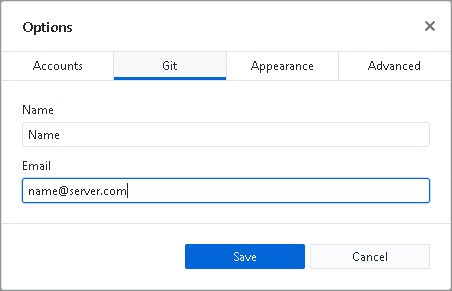
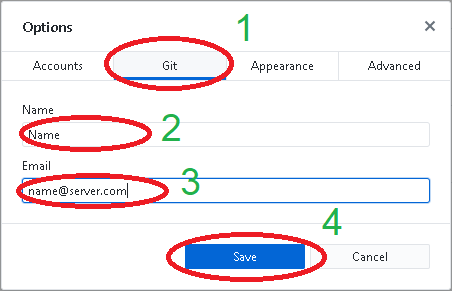
modify git script, TODO: functions in Python

diff --git a/src/python/12 - System kontroli wersji - Git.md b/src/python/12 - System kontroli wersji - Git.md
@@ -6,65 +6,128 @@ System kontroli wersji (ang. *version/revision control system*) jest to oprogram
 
 Dodatkowe materiały:
 
-* Strona projektu git: http://git-scm.com/
-* Darmowa książka: http://git-scm.com/book
-* Tutorial GitHub: https://guides.github.com/
+- Strona projektu git: [http://git-scm.com/](http://git-scm.com/)
+- Darmowa książka: [http://git-scm.com/book](http://git-scm.com/book)
+- Tutorial GitHub: [https://guides.github.com/](https://guides.github.com/)
 
-## Program GitHub Desktop, konto w serwisie GitHub
+## Serwis GitHub i program GitHub Desktop
 
-Utwórz konto w serwisie [GitHub](https://github.com/). Pamiętaj, że GitHub jest bardzo popularnym serwisem wśród społeczności open-source, rozważnie wybierz alias pod którym będziesz widoczny w serwisie. Wszystkie treści publikowane na GitHub, włącznie z projektami i kodem, są domyślnie publiczne. Profil GitHub może być Twoją wizytówką!
+[GitHub](https://github.com/) jest serwisem hostingowym wykorzystującym system kontroli wersji Git. [GitHub](https://github.com/) jest bardzo popularnym serwisem wśród społeczności open-source pozwala na tworzenie zarówno publicznych jak i prywatnych repozytoriów.
 
-Zwyczajowo obsługa systemu kontroli wersji odbywa się za pomocą programu `git` wywoływanego z linii poleceń. Istnieje jednak szereg GUI ułatwiających pracę z programem git. Jednym z nich jest GitHub Desktop. Ściągnij program ze strony https://desktop.github.com/ i zainstaluj. Jeżeli jest to pierwsze uruchomienie programu zostaniesz poproszony o zalogowanie się swoim kontem GitHub. W przeciwnym wypadku program poprosi Cię o zalogowanie później.
+---
 
-**Pamiętaj aby po skończonych laboratoriach wylogować się w programie!**
+#### :hammer: :fire: Zadanie :fire: :hammer:
 
-Warto upewnić się, że program GitHub Desktop ma odpowiednio ustawioną tożsamość użytkownika (w laboratorium z programu korzysta wiele osób). Dzięki temu wgrywane do repozytorium zmiany będą markowane naszą nazwą użytkownika i adresem e-mail. W tym celu z menu *File* wybierz *Options…* (jeśli menu nie jest widoczne, możesz użyć skrótu *Ctrl*+*,*):
+Jeżeli nie masz konta na [GitHub](https://github.com/) utwórz nowe konto. Rozważnie wybierz alias pod którym będziesz widoczny w serwisie. Wszystkie treści publikowane na GitHub, włącznie z projektami i kodem, są domyślnie publiczne. Profil GitHub może być Twoją wizytówką!
 
-![](./_images/12/git_options.png)
+---
 
-Następnie w zakładce Git wyedytuj nazwę oraz adres email:
+Zwyczajowo obsługa systemu kontroli wersji odbywa się za pomocą programu `git` wywoływanego z linii poleceń. Istnieje jednak szereg GUI ułatwiających pracę z programem git. Jednym z nich jest GitHub Desktop. Celem instalacji programu na domowym komputerze można go pobrać ze strony: [https://desktop.github.com/](https://desktop.github.com/).
 
-![](./_images/12/git_credentials.png)
+Jeżeli jest to pierwsze uruchomienie programu zostaniesz poproszony o zalogowanie się swoim kontem GitHub. W przeciwnym wypadku otwórz menu **File** (1) &rarr; **Options..** (2) (jeśli menu nie jest widoczne, możesz użyć skrótu *Ctrl*+*,*):
 
-## Tworzenie repozytorium
+![git_options](./_images/12/git_options.png)
 
-GitHub Desktop służy do zarządzania lokalnymi repozytoriami znajdującymi się na dysku komputera. Pierwszym krokiem umożliwiającym nam pracę jest utworzenie lokalnego repozytorium w folderze naszego projektu. W tym celu klikamy:
+Następnie wybierz zakładkę **Accounts** (1) i zaloguj program *GitHub Desktop* do serwisu *GitHub* klikając **Sign in** (2), konieczne będzie podanie danych do logowania:
 
-![](./_images/12/git_create.png)
+![git_accounts](./_images/12/git_accounts.png)
 
-Następnie nadaj nazwę swojemu repozytorium: *hello-git-nazwisko* (nie używaj w nazwie repozytorium "polskich" znaków!) i wybierz lokalizację, w której zostanie utworzony nasz projekt. Następnie wybierz konfigurację Git Ignore. Warto wskazać używany język, np. C++ (dowiedz się czym jest plik .gitignore). Utwórz lokalne repozytorium klikając *Create Repository*.
+---
 
-Obejrzyj zawartość folderu z utworzonym repozytorium. Zauważ, że pojawił się ukryty folder *.git*. Zastanów się co zawiera?
+#### :hammer: :fire: Zadanie :fire: :hammer:
+
+1. Zaloguj *GitHub Desktop* w serwisie *GitHub*.
+2. **Pamiętaj aby po skończonych laboratoriach wylogować się w programie!** Operację tę wykonasz w tym samym menu klikając **Sign Out**.
+
+---
+
+Warto upewnić się, że program GitHub Desktop ma odpowiednio ustawioną tożsamość użytkownika (w laboratorium z programu korzysta wiele osób). Dzięki temu wgrywane do repozytorium zmiany będą markowane naszą nazwą użytkownika i adresem e-mail. W tym celu otwórz menu **File** (1) &rarr; **Options..** (2):
+
+![git_options](./_images/12/git_options.png)
+
+Następnie w zakładce **Git** (1) wyedytuj nazwę (2) oraz adres email (3). Zatwierdź klikając **Save** (4):
+
+![git_credentials](./_images/12/git_credentials.png)
+
+---
+
+#### :hammer: :fire: Zadanie :fire: :hammer:
+
+Wyedytuj tożsamość w programie *GitHub Desktop* zgodnie z powyższą instrukcją.
+
+---
+
+## Moje pierwsze repo
+
+### Tworzenie repozytorium
+
+*GitHub Desktop* służy do zarządzania lokalnymi repozytoriami znajdującymi się na dysku komputera. Pierwszym krokiem umożliwiającym nam pracę jest utworzenie lokalnego repozytorium w folderze naszego projektu. W tym celu klikamy:
+
+![git_create](./_images/12/git_create.png)
+
+Następnie nadajemy nazwę swojemu repozytorium (1) (nie używaj w nazwie repozytorium "polskich" znaków!) i wybierz lokalizację (2), w której zostanie utworzony nasz projekt. Następnie wybierz konfigurację **Git Ignore** (3). Warto wskazać używany język, np. Python. Utwórz lokalne repozytorium klikając *Create Repository* (4).
+
+![git_repo_creator](./_images/12/git_repo_creator.png)
+
+---
+
+#### :hammer: :fire: Zadanie :fire: :hammer:
+
+1. Utwórz nowe repozytorium o nazwie: *hello-git-nazwisko* (nie używaj w nazwie repozytorium "polskich" znaków!). Jako konfigurację *Git ignore* wybierz *Python*.
+2. Obejrzyj zawartość folderu z utworzonym repozytorium. Zauważ, że pojawił się ukryty folder *.git*. Zastanów się co zawiera?
+3. Dowiedz się czym jest plik *.gitignore*
+
+---
 
 W górnym lewym rogu znajduje się rozwijana lista repozytoriów:
 
-![](./_images/12/git_repo_list.png)
+![git_repo_list](./_images/12/git_repo_list.png)
 
 Z niej masz możliwość wybrania aktualnego repozytorium z którym pracujesz. W tym momencie nasze repozytorium istnieje tylko na lokalnym komputerze. Należy umieścić je na serwerze GitHub. W tym celu klikamy:
 
-![](./_images/12/git_publish.png)
+![git_publish](./_images/12/git_publish.png)
 
 Jeżeli dotychczas nie wykonaliśmy logowania programu do serwisu GitHub, zostaniemy o to poproszeni.
 
-Jeśli nie chcemy, aby repozytorium było publiczne, pozostawiamy zaznaczone pole *Keep this code private*. Darmowe konto w portalu GitHub pozwala na tworzenie prywatnych repozytoriów współdzielonych maksymalnie przez 3 użytkowników. Potwierdzamy chęć opublikowania repozytorium i czekamy na wysłanie danych na serwer.
+Jeśli nie chcemy, aby repozytorium było publiczne, pozostawiamy zaznaczone pole *Keep this code private* (1). Zachęcamy do tworzenia publicznych repozytoriów i dzielenia się swoją pracą! Darmowe konto w portalu GitHub pozwala na tworzenie prywatnych repozytoriów współdzielonych maksymalnie przez 3 użytkowników. Potwierdzamy chęć opublikowania repozytorium (2) i czekamy na wysłanie danych na serwer.
 
-Przejdź do swojego profilu na GitHub i obejrzyj utworzone repozytorium.
+![git_publish_window](./_images/12/git_publish_window.png)
+
+---
+
+#### :hammer: :fire: Zadanie :fire: :hammer:
+
+1. Opublikuj swoje repozytorium jako publiczne.
+2. Przejdź do swojego profilu na [GitHub.com](https://github.com/) i obejrzyj utworzone repozytorium.
+
+---
 
 ### Pierwszy commit
 
-Nadajmy sens naszemu pierwszemu repozytorium! Bezpośrednio w utworzonym folderze projektowym *hello-git-nazwisko* stwórz projekt przykładowego programu wykorzystującego SFML oraz OpenGL, zgodnie z instrukcją do laboratorium 07.
+Nadajmy sens naszemu pierwszemu repozytorium!
 
-Wróć do programu GitHub Desktop. Zauważ że program automatycznie wykrył wprowadzone zmiany w plikach. Wyświetlana jest lista zmodyfikowanych plików i treść modyfikacji. Zmiany powinny obejmować 3 pliki: *main.cpp*, *.pro* i *.pro.user*:
+---
 
-![](./_images/12/git_changes.png)
+#### :hammer: :fire: Zadanie :fire: :hammer:
 
-Czas wysłać zmiany do serwisu GitHub. W tym celu w polu “Summary” umieść opis wykonanych zmian, przy każdej kolejnej zmianie należy tu umieścić krótki komentarz na temat wykonanych w kodzie prac. Wykonaj commit zmian za pomocą przycisku:
+1. Otwórz folder zawierający repozytorium *hello-git-nazwisko* w środowisku **PyCharm**.
+2. Dodaj do projektu nowy skrypt: *colaborative_script.py*. *PyCharm* automatycznie wykryje istnienie repozytorium *Git* w podanym folderze i zapyta się czy chcemy dodać pliki do repozytorium. W tym momencie możemy wcisnąć **Cancel**.
 
-![](./_images/12/git_commit.png)
+---
 
-W tym momencie poinformowaliśmy lokalne repozytorium o wprowadzonych zmianach, należy jeszcze je wysłać na serwer (push). W tym celu wciśnij przycisk:
+*GitHub Desktop* automatycznie wykryje wprowadzone zmiany w plikach. Wyświetlana jest lista zmodyfikowanych plików i treść modyfikacji:
 
-![](./_images/12/git_push.png)
+![git_changes](./_images/12/git_changes.png)
+
+#TODO: CZY folder .idea?! Czy edytować plik .giignore ?!
+
+Aby wysłać zmiany do serwisu *GitHub* należy wprowadzić opis zmian w polu **Summary** (1), a następnie kliknąć **Commit to master** (2):
+
+![git_commit](./_images/12/git_commit.png)
+
+W tym momencie poinformowaliśmy lokalne repozytorium o wprowadzonych zmianach, należy jeszcze je wysłać na serwer (push). W tym celu klikamy:
+
+![git_push](./_images/12/git_push.png)
 
 Wykonane powyżej czynności odpowiadają wykonaniu komend:
 
@@ -73,55 +136,113 @@ git commit
 git push
 ```
 
-Wróć na stronę serwisu GitHub, otwórz repozytorium i przejrzyj czy wszystkie pliki zostały poprawnie wgrane.
+---
+
+#### :hammer: :fire: Zadanie :fire: :hammer:
+
+1. Wykonaj commit i wyślij utworzony skrypt na serwer *GitHub*.
+2. Wróć na stronę serwisu GitHub, otwórz repozytorium i przejrzyj czy wszystkie pliki zostały poprawnie wgrane.
+
+---
 
 ### Zarządzanie przez WWW, plik README
 
-Każde repozytorium powinno zawierać plik *README*. Serwis GitHub.com udostępnia proste narzędzie online ułatwiające jego edycję. Aby dodać plik *README* zaloguj się przez przeglądarkę w serwisie i kliknij:
+Każde repozytorium powinno zawierać plik *README*. Serwis GitHub.com udostępnia proste narzędzie online ułatwiające jego edycję. Aby dodać plik *README* należy zalogować się na serwisie *GitHub*, otworzyć repozytorium i kliknąć:
 
-![](./_images/12/git_add_readme.png)
+![git_add_readme](./_images/12/git_add_readme.png)
+
+Po wypełnieniu treści dokumentu *README* można wykonać jego commit do repozytorium klikając:
+
+![git_commit_new_file](./_images/12/git_commit_new_file.png)
+
+---
+
+#### :hammer: :fire: Zadanie :fire: :hammer:
 
 Wypełnij plik *README* treścią zawierającą nazwę repozytorium, autora, wykorzystane narzędzia etc. W plikach *README* możliwe jest wykorzystanie prostych znaczników do formatowania tekstu typu [Markdown](https://help.github.com/articles/basic-writing-and-formatting-syntax/).
 
-Dodaj plik do repo wykonując jego commit:
+---
 
-![](./_images/12/git_commit_new_file.png)
+### Pobieranie zmian z zdalnego repozytorium
 
-Wykonane na zdalnym repozytorium zmiany można natychmiast ściągnąć do lokalnego repozytorium. W tym celu w programie GitHub Desktop wybierz opcję *Fetch* w celu ściągnięcia informacji o aktualnym stanie zdalnego repozytorium:
+Wykonane na zdalnym repozytorium zmiany można natychmiast ściągnąć do lokalnego repozytorium. W tym celu w programie *GitHub Desktop* wybierz opcję **Fetch** w celu ściągnięcia informacji o aktualnym stanie zdalnego repozytorium:
 
-![](./_images/12/git_fetch.png)
+![git_fetch](./_images/12/git_fetch.png)
 
 a następnie:
 
-![](./_images/12/git_pull.png)
+![git_pull](./_images/12/git_pull.png)
 
-Wykonanie tych operacji odpowiada wykonaniu komend `git fetch` oraz `git merge`. W folderze naszego projektu powinien być już widoczny plik *README*.
+Wykonanie tych operacji odpowiada wykonaniu komend `git fetch` oraz `git merge`.
 
-Wysyłanie kolejnych zmian do zdalnego repozytorium jest równie proste. Otwórz projekt w środowisku Qt Creator i zmodyfikuj program, tak aby rysował trzy kostki. Wróć do GitHub Desktop i wyślij zmiany dodając nowy *commit* (i opisując wprowadzone zmiany) i wypchnij (*push*) zmiany na serwer.
+---
 
-Na stronie GitHub w zakładce *Commits* swojego repozytorium możesz obserwować zmiany dokonane w poszczególnych commitach, przywrócić wcześniejszą wersję i wiele innych. Zapoznaj się z nimi samodzielnie. 
+#### :hammer: :fire: Zadanie :fire: :hammer:
+
+Ściągnij zmiany zgodnie z powyższą instrukcją. W folderze naszego projektu powinien być już widoczny plik *README*.
+
+---
+
+### Wysyłanie kolejnych zmian
+
+Wysyłanie kolejnych zmian do zdalnego repozytorium jest równie proste. Wszystkie zmiany wprowadzane w folderze zawierającym repozytorium pojawią się w programie *GitHub Desktop* (z wykluczeniem ignorowanych pików). Aby wykonać wysłanie kolejnych zmian wykonujemy kolejny *commit* (wraz z opisem zmian) i wypychamy (*push*) zmiany na serwer.
+
+---
+
+#### :hammer: :fire: Zadanie :fire: :hammer:
+
+1. Zmodyfikuj skrypt *colaborative_script.py* tak aby wyświetlał wiadomość: *This is my first Python repository*. A następnie wypisze kody ASCII kolejnych liter z powyższego napisu.
+2. Wykonaj *commit* powyższych zmian i wyślij zmiany na serwer *GitHub*.
+
+---
+
+Na stronie GitHub w zakładce *Commits* swojego repozytorium możesz obserwować zmiany dokonane w poszczególnych commitach, przywrócić wcześniejszą wersję i wiele innych. Zapoznaj się z nimi samodzielnie.
 
 Podobnie jak inne serwisy społecznościowe GitHub umożliwia komunikację między użytkownikami. Znajdź profil kolegi/koleżanki i zacznij go obserwować (*follow*). Poszukaj interesujących projektów i oznacz je jako jako obserwowane (*watch*/*star*).
 
 ## Współpraca nad projektami
 
-Jedną z najważniejszych funkcjonalności gita jest możliwość kooperacji wielu autorów przy jednym projekcie. W serwisie GitHub.com wróć do swojego nowego repozytorium *hello-git-nazwisko* i w zakładce *Settings*/*Collaborators* dodaj profil koleżanki/kolegi siedzących obok. Od tego momentu wybrany użytkownik ma możliwość modyfikowania Twojego repozytorium.
+Jedną z najważniejszych funkcjonalności gita jest możliwość kooperacji wielu autorów przy jednym projekcie. W celu dodania osoby współpracującej na stronie danego repozytorium (bezpośrednio w serwisie [GitHub.com](https://github.com) należy wybrać zakładkę **Setiings** a następnie **Collaborators**. Następnie korzystając z paska wyszukiwania można wyszukać innych użytkowników *GitHub* i dodać je jako osoby współpracujące. Od tego momentu wybrany użytkownik ma możliwość modyfikowania Twojego repozytorium.
+
+---
+
+#### :hammer: :fire: Zadanie :fire: :hammer:
 
 Połącz się w grupę dwuosobową z kolegą/koleżanką obok i wzajemnie dodajcie swoje profile do swoich repozytoriów.
 
-Aby rozpocząć pracę nad zmianą projektu innego użytkownika należy *sklonować* jego projekt (`git clone`). W tym celu wróć do programu GitHub Desktop i z menu wybierz *Clone repository*:
+---
 
-![](./_images/12/git_clone_repository.png)
+Aby rozpocząć pracę nad zmianą projektu innego użytkownika należy *sklonować* jego projekt (`git clone`). W tym celu przechodzimy do programu *GitHub Desktop* i z menu wybieramy *Clone repository*:
 
-Następnie odszukaj repozytorium współautora programu i kliknij:
+![git_clone_repository](./_images/12/git_clone_repository.png)
 
-![](./_images/12/git_clone.png)
+Następnie wyszukujemy repozytorium współautora programu i klikamy:
 
-Otwórz sklonowany projekt w środowisku programistycznym i zmień kierunek obrotu kostek.
+![git_clone](./_images/12/git_clone.png)
 
-W GitHub Desktop wybierz zmienione lokalne repozytorium i dodaj nowy commit oraz wyślij go na serwer.
+---
 
-Ściągnij zmiany do swojego repozytorium wykonane przez kolegę/koleżankę zgodnie z punktem k.
+#### :hammer: :fire: Zadanie :fire: :hammer:
+
+1. Wykonaj *clone* repozytorium kolegi/koleżanki z grupy.
+2. Zmodyfikuj program, tak aby poza kodami ASCII poszczególnych liter w każdej linijce program prezentował właściwy znak. Na końcu program powinien wyświetlić napis: *This changes were made by Imię Nazwisko*. Np.:
+
+> This is my first Python repository  
+> T - 84  
+> h - 104  
+> i - 105  
+> s - 115  
+>  
+> ...  
+>  
+> This changes were made by Franek Kowalski
+
+3. W GitHub Desktop wybierz zmienione lokalne repozytorium i dodaj nowy *commit* oraz wyślij go na serwer.
+4. Ściągnij zmiany do swojego repozytorium wykonane przez kolegę/koleżankę.
+
+---
+
+## Funkcje w Python
 
 **Pamiętaj aby po skończonych laboratoriach wylogować się z programu GitHub Desktop!** W tym celu wybierz *File* &rarr; *Options…* , a następnie w zakładce *Accounts* kliknij *Sign Out*.
 
@@ -131,12 +252,8 @@ Możesz także usunąć repozytorium stworzone w czasie laboratorium, aby nie za
 
 ## Zadania
 
-* Zapoznaj się z tutorialem do GitHub: https://guides.github.com/. Przeczytaj ze zrozumieniem tematy do *Be Social* włącznie.
-* Czym jest folder *.git* i co zawiera?
-* Czym jest plik *.gitignore* i co zawiera? Zmodyfikuj plik *.gitignore* tak, aby zmiany w plikach *.pro.user* nie były śledzone. Korzystając z serwisu GitHub.com usuń z repozytorium wcześniej dodany plik *.pro.user*
-* Czasami w czasie wspólnej pracy nad jednym plikiem może dojść do konfliktu. Dlaczego? W takiej sytuacji wykonywana jest operacja *merge*. Dowiedz czym jest *merge*, jak się go stosuje i jak sobie z tym radzić!
-* Zastanów się jakie pliki mogą znaleźć się w repozytorium? Czy odpowiednie jest wrzucanie plików .exe lub .bin? Czy można wrzucić do repozytorium projekt spakowany za pomocą .zip? Dlaczego odpowiedź na powyższe pytania jest przecząca? Które pliki definiujące projekt/środowisko programistyczne powinny znaleźć się w repozytorium?
-
+- Czasami w czasie wspólnej pracy nad jednym plikiem może dojść do konfliktu. Dlaczego? W takiej sytuacji wykonywana jest operacja *merge*. Dowiedz czym jest *merge*, jak się go stosuje i jak sobie z tym radzić!
+- Zastanów się jakie pliki mogą znaleźć się w repozytorium? Czy odpowiednie jest wrzucanie plików .exe lub .bin? Czy można wrzucić do repozytorium projekt spakowany za pomocą .zip? Dlaczego odpowiedź na powyższe pytania jest przecząca? Które pliki definiujące projekt/środowisko programistyczne powinny znaleźć się w repozytorium?
 
 ---
 
